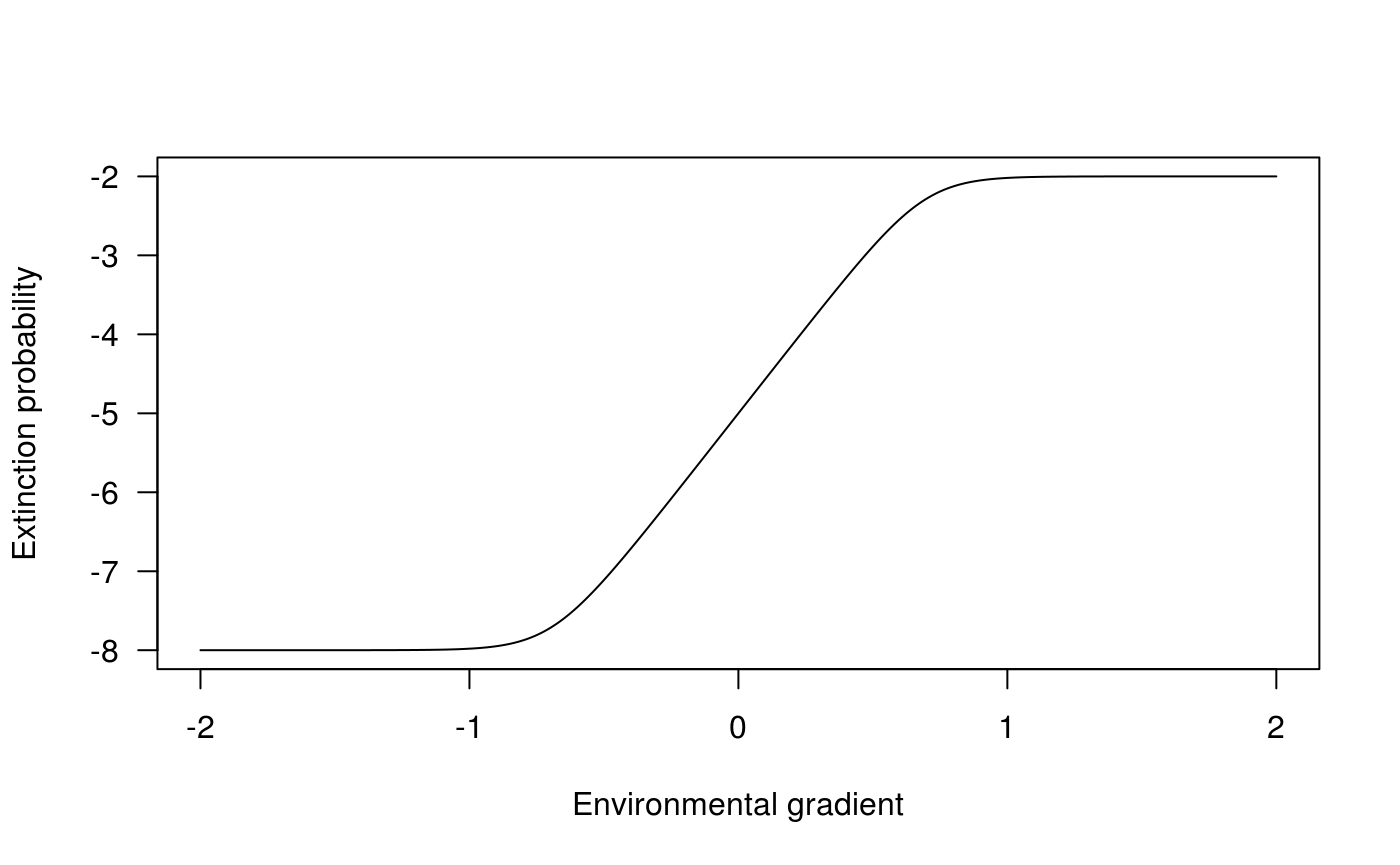
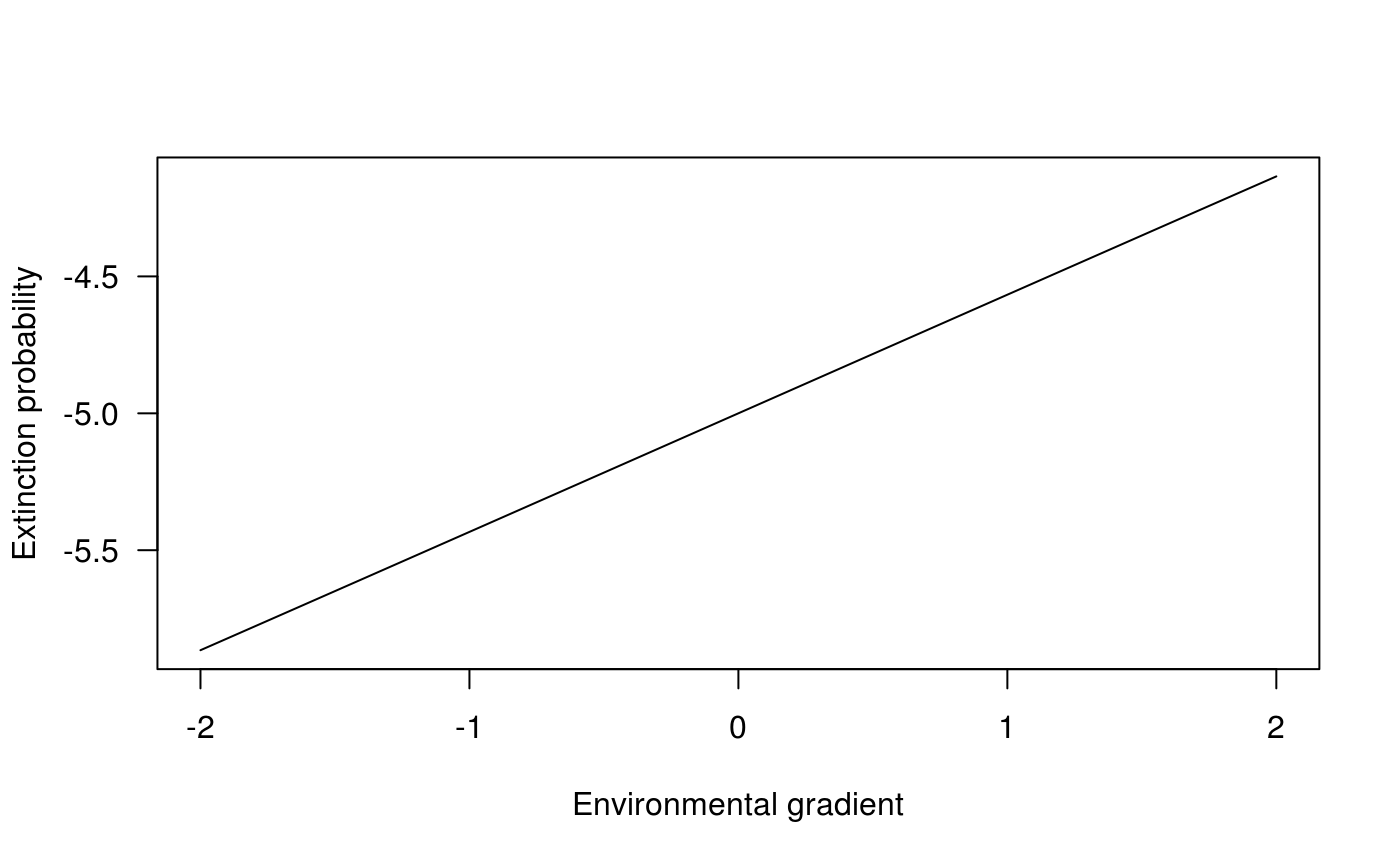
Automated deployment: Wed Apr 15 23:28:01 UTC 2020 14c1814e7c932e7a45761147b77a052a9eed8784

diff --git a/articles/Cazelles_2016.html b/articles/Cazelles_2016.html
@@ -108,83 +108,83 @@
 <div id="niche-model" class="section level2">
 <h2 class="hasAnchor">
 <a href="#niche-model" class="anchor"></a>Niche model</h2>
-<p>To simulate I use the niche model that I implemented in <code><a href="https://rdrr.io/pkg/biogeonet/man/nicheModel.html">nicheModel()</a></code>. The first parameters, ``, determines the number of species:</p>
+<p>To simulate I use the niche model that I implemented in <code><a href="https://rdrr.io/pkg/biogeonet/man/nicheModel.html">nicheModel()</a></code>. The first parameters, <code>nbsp</code>, determines the number of species:</p>
 <div class="sourceCode" id="cb2"><html><body><pre class="r"><span class="fu"><a href="https://rdrr.io/pkg/biogeonet/man/nicheModel.html">nicheModel</a></span>(<span class="kw">nbsp</span> <span class="kw">=</span> <span class="fl">5</span>, <span class="fl">.2</span>, <span class="fl">1</span>)
-<span class="co">#&gt;            [,1]        [,2]      [,3]       [,4]       [,5]</span>
-<span class="co">#&gt; [1,]  0.0000000  0.08423852 0.7664287  0.0000000  0.0000000</span>
-<span class="co">#&gt; [2,] -0.1673350 -0.59183503 0.0000000  0.0000000  0.0000000</span>
-<span class="co">#&gt; [3,] -0.4846214  0.00000000 0.0000000  0.0000000  0.0000000</span>
-<span class="co">#&gt; [4,]  0.0000000  0.00000000 0.0000000  0.0000000  0.7389576</span>
-<span class="co">#&gt; [5,]  0.0000000  0.00000000 0.0000000 -0.4723567 -0.9623593</span>
+<span class="co">#&gt;      [,1]        [,2]       [,3] [,4]       [,5]</span>
+<span class="co">#&gt; [1,]    0  0.00000000  0.0000000    0  0.0000000</span>
+<span class="co">#&gt; [2,]    0 -0.96414199  0.9336844    0  0.0000000</span>
+<span class="co">#&gt; [3,]    0 -0.02985986 -0.7644555    0  0.0000000</span>
+<span class="co">#&gt; [4,]    0  0.00000000  0.0000000    0  0.0000000</span>
+<span class="co">#&gt; [5,]    0  0.00000000  0.0000000    0 -0.3531925</span>
 <span class="fu"><a href="https://rdrr.io/pkg/biogeonet/man/nicheModel.html">nicheModel</a></span>(<span class="kw">nbsp</span> <span class="kw">=</span> <span class="fl">10</span>, <span class="fl">.2</span>, <span class="fl">1</span>)
-<span class="co">#&gt;             [,1]       [,2]       [,3]        [,4]         [,5]       [,6]</span>
-<span class="co">#&gt;  [1,]  0.0000000  0.0000000  0.0000000  0.00000000  0.000000000  0.0000000</span>
-<span class="co">#&gt;  [2,]  0.0000000  0.0000000  0.0000000  0.00000000  0.000000000  0.0000000</span>
-<span class="co">#&gt;  [3,]  0.0000000  0.0000000  0.0000000  0.02290975  0.000000000  0.0000000</span>
-<span class="co">#&gt;  [4,]  0.0000000  0.0000000 -0.7154118  0.00000000  0.020137347  0.0000000</span>
-<span class="co">#&gt;  [5,]  0.0000000  0.0000000  0.0000000 -0.20158438 -0.285316206 -0.2173576</span>
-<span class="co">#&gt;  [6,]  0.0000000  0.0000000  0.0000000  0.00000000  0.006646735  0.0000000</span>
-<span class="co">#&gt;  [7,] -0.9921565 -0.3493675 -0.5588185  0.00000000  0.000000000  0.0000000</span>
-<span class="co">#&gt;  [8,]  0.0000000  0.0000000  0.0000000  0.00000000  0.000000000  0.0000000</span>
-<span class="co">#&gt;  [9,]  0.0000000  0.0000000  0.0000000  0.00000000  0.000000000  0.0000000</span>
-<span class="co">#&gt; [10,]  0.0000000  0.0000000  0.0000000  0.00000000  0.000000000  0.0000000</span>
-<span class="co">#&gt;             [,7]         [,8] [,9]     [,10]</span>
-<span class="co">#&gt;  [1,]  0.5200845  0.000000000    0 0.0000000</span>
-<span class="co">#&gt;  [2,]  0.1186515  0.000000000    0 0.0000000</span>
-<span class="co">#&gt;  [3,]  0.8768480  0.000000000    0 0.0000000</span>
-<span class="co">#&gt;  [4,]  0.0000000  0.000000000    0 0.0000000</span>
-<span class="co">#&gt;  [5,]  0.0000000  0.000000000    0 0.0000000</span>
-<span class="co">#&gt;  [6,]  0.0000000  0.000000000    0 0.0000000</span>
-<span class="co">#&gt;  [7,]  0.0000000  0.000000000    0 0.4796585</span>
-<span class="co">#&gt;  [8,]  0.0000000 -0.000819478    0 0.0000000</span>
-<span class="co">#&gt;  [9,]  0.0000000  0.000000000    0 0.0000000</span>
-<span class="co">#&gt; [10,] -0.7841765  0.000000000    0 0.0000000</span></pre></body></html></div>
+<span class="co">#&gt;             [,1]        [,2]       [,3]        [,4]       [,5]       [,6]</span>
+<span class="co">#&gt;  [1,]  0.0000000  0.19739505  0.0000000  0.09025352  0.0000000  0.0000000</span>
+<span class="co">#&gt;  [2,] -0.5578635  0.00000000  0.9298155  0.00000000  0.0000000  0.0000000</span>
+<span class="co">#&gt;  [3,]  0.0000000 -0.36755342 -0.9672750  0.00000000  0.0000000  0.0000000</span>
+<span class="co">#&gt;  [4,] -0.7575315  0.00000000  0.0000000  0.00000000  0.0000000  0.0000000</span>
+<span class="co">#&gt;  [5,]  0.0000000  0.00000000  0.0000000  0.00000000  0.0000000  0.0000000</span>
+<span class="co">#&gt;  [6,]  0.0000000  0.00000000  0.0000000  0.00000000  0.0000000  0.0000000</span>
+<span class="co">#&gt;  [7,]  0.0000000  0.00000000  0.0000000 -0.64305089 -0.3535355 -0.9410673</span>
+<span class="co">#&gt;  [8,]  0.0000000  0.00000000  0.0000000  0.00000000  0.0000000  0.0000000</span>
+<span class="co">#&gt;  [9,]  0.0000000  0.00000000  0.0000000  0.00000000  0.0000000  0.0000000</span>
+<span class="co">#&gt; [10,]  0.0000000 -0.01514157 -0.5757148 -0.95177582 -0.4148616 -0.9619323</span>
+<span class="co">#&gt;             [,7]       [,8] [,9]      [,10]</span>
+<span class="co">#&gt;  [1,]  0.0000000  0.0000000    0 0.00000000</span>
+<span class="co">#&gt;  [2,]  0.0000000  0.0000000    0 0.02626717</span>
+<span class="co">#&gt;  [3,]  0.0000000  0.0000000    0 0.89731831</span>
+<span class="co">#&gt;  [4,]  0.3401356  0.0000000    0 0.24179039</span>
+<span class="co">#&gt;  [5,]  0.7032274  0.0000000    0 0.86830016</span>
+<span class="co">#&gt;  [6,]  0.4431213  0.0000000    0 0.53421292</span>
+<span class="co">#&gt;  [7,] -0.7040102 -0.7135993    0 0.31088201</span>
+<span class="co">#&gt;  [8,]  0.7248843  0.0000000    0 0.00000000</span>
+<span class="co">#&gt;  [9,]  0.0000000  0.0000000    0 0.00000000</span>
+<span class="co">#&gt; [10,] -0.1599543  0.0000000    0 0.00000000</span></pre></body></html></div>
 <p>The second parameter controls the connectance (the expected connectance).</p>
 <div class="sourceCode" id="cb3"><html><body><pre class="r"><span class="fu"><a href="https://rdrr.io/pkg/biogeonet/man/nicheModel.html">nicheModel</a></span>(<span class="fl">5</span>, <span class="kw">connec</span> <span class="kw">=</span> <span class="fl">.1</span>, <span class="fl">1</span>)
-<span class="co">#&gt;      [,1]       [,2]       [,3]       [,4]        [,5]</span>
-<span class="co">#&gt; [1,]    0  0.0000000  0.0000000  0.0000000  0.00000000</span>
-<span class="co">#&gt; [2,]    0 -0.9624372  0.0000000  0.0000000  0.44972237</span>
-<span class="co">#&gt; [3,]    0  0.0000000  0.0000000  0.0000000  0.37335227</span>
-<span class="co">#&gt; [4,]    0  0.0000000  0.0000000  0.0000000  0.32351070</span>
-<span class="co">#&gt; [5,]    0 -0.3008550 -0.9874299 -0.2493751 -0.01861432</span>
+<span class="co">#&gt;            [,1] [,2] [,3]      [,4] [,5]</span>
+<span class="co">#&gt; [1,]  0.0000000    0    0 0.8324706    0</span>
+<span class="co">#&gt; [2,]  0.0000000    0    0 0.0000000    0</span>
+<span class="co">#&gt; [3,]  0.0000000    0    0 0.0000000    0</span>
+<span class="co">#&gt; [4,] -0.5006021    0    0 0.0000000    0</span>
+<span class="co">#&gt; [5,]  0.0000000    0    0 0.0000000    0</span>
 <span class="fu"><a href="https://rdrr.io/pkg/biogeonet/man/nicheModel.html">nicheModel</a></span>(<span class="fl">5</span>, <span class="kw">connec</span> <span class="kw">=</span> <span class="fl">.4</span>, <span class="fl">1</span>)
-<span class="co">#&gt;             [,1]        [,2]       [,3]       [,4]       [,5]</span>
-<span class="co">#&gt; [1,] -0.08938488  0.15414453  0.0000000  0.6573219  0.3285603</span>
-<span class="co">#&gt; [2,] -0.02648614 -0.52872205  0.8381524 -0.1923653  0.3987934</span>
-<span class="co">#&gt; [3,]  0.00000000 -0.45138505 -0.9403534 -0.2618457  0.5103612</span>
-<span class="co">#&gt; [4,] -0.71166805  0.01849329  0.9173436  0.0000000  0.4311981</span>
-<span class="co">#&gt; [5,] -0.65256086 -0.38897821 -0.3942041 -0.7259063 -0.7912346</span></pre></body></html></div>
-<p>The last parameter, <code>mode</code>, affects the sign structure of the output matrix (not included in the original publication o fthe niche model):</p>
+<span class="co">#&gt;             [,1]       [,2]       [,3]       [,4]         [,5]</span>
+<span class="co">#&gt; [1,] -0.05694253  0.8829116  0.0000000  0.0000000  0.000000000</span>
+<span class="co">#&gt; [2,] -0.77399797 -0.9034324  0.0000000  0.0000000  0.000000000</span>
+<span class="co">#&gt; [3,]  0.00000000  0.0000000  0.0000000  0.5799863  0.009271166</span>
+<span class="co">#&gt; [4,]  0.00000000  0.0000000 -0.4191426 -0.6282816  0.768845469</span>
+<span class="co">#&gt; [5,]  0.00000000  0.0000000 -0.5761981 -0.2742476 -0.716800046</span></pre></body></html></div>
+<p>The last parameter, <code>mode</code>, affects the sign structure of the output matrix (not included in the original publication of the niche model):</p>
 <div class="sourceCode" id="cb4"><html><body><pre class="r"><span class="co"># mode 1 + and -, refered as "predation" in Cazelles (2016)</span>
 <span class="fu"><a href="https://rdrr.io/pkg/biogeonet/man/nicheModel.html">nicheModel</a></span>(<span class="fl">5</span>, <span class="fl">.2</span>, <span class="kw">mode</span> <span class="kw">=</span> <span class="fl">1</span>)
-<span class="co">#&gt;            [,1]       [,2]       [,3]       [,4]       [,5]</span>
-<span class="co">#&gt; [1,] -0.2196047  0.0717989  0.0000000  0.0000000  0.0000000</span>
-<span class="co">#&gt; [2,] -0.8239885  0.0000000  0.0000000  0.1419593  0.0000000</span>
-<span class="co">#&gt; [3,]  0.0000000  0.0000000 -0.4202297  0.6308275  0.2573932</span>
-<span class="co">#&gt; [4,]  0.0000000 -0.6498952 -0.7762214  0.0000000  0.2155817</span>
-<span class="co">#&gt; [5,]  0.0000000  0.0000000 -0.1042250 -0.2414534 -0.1375708</span>
+<span class="co">#&gt;            [,1]       [,2]        [,3]       [,4]       [,5]</span>
+<span class="co">#&gt; [1,]  0.0000000  0.0000000  0.99558611  0.0000000  0.0000000</span>
+<span class="co">#&gt; [2,]  0.0000000  0.0000000  0.74920607  0.1449158  0.0000000</span>
+<span class="co">#&gt; [3,] -0.9257428 -0.8393909  0.00000000  0.9853119  0.0000000</span>
+<span class="co">#&gt; [4,]  0.0000000 -0.8019472 -0.05674262 -0.5986828 -0.7287363</span>
+<span class="co">#&gt; [5,]  0.0000000  0.0000000  0.00000000  0.7557363  0.0000000</span>
 <span class="co"># mode 2, only -, refered as "competition" in Cazelles (2016)</span>
 <span class="fu"><a href="https://rdrr.io/pkg/biogeonet/man/nicheModel.html">nicheModel</a></span>(<span class="fl">5</span>, <span class="fl">.2</span>, <span class="kw">mode</span> <span class="kw">=</span> <span class="fl">2</span>)
-<span class="co">#&gt;      [,1]       [,2]       [,3]       [,4]       [,5]</span>
-<span class="co">#&gt; [1,]    0  0.0000000  0.0000000  0.0000000  0.0000000</span>
-<span class="co">#&gt; [2,]    0 -0.5983179 -0.5183450  0.0000000 -0.7476726</span>
-<span class="co">#&gt; [3,]    0 -0.5660064  0.0000000 -0.6913341  0.0000000</span>
-<span class="co">#&gt; [4,]    0  0.0000000 -0.5779856 -0.2777446  0.0000000</span>
-<span class="co">#&gt; [5,]    0 -0.2365302  0.0000000  0.0000000  0.0000000</span>
+<span class="co">#&gt;            [,1]       [,2]       [,3]       [,4]        [,5]</span>
+<span class="co">#&gt; [1,] -0.9650264 -0.5748066  0.0000000  0.0000000  0.00000000</span>
+<span class="co">#&gt; [2,] -0.0158577  0.0000000 -0.8066204  0.0000000  0.00000000</span>
+<span class="co">#&gt; [3,]  0.0000000 -0.8675360  0.0000000  0.0000000  0.00000000</span>
+<span class="co">#&gt; [4,]  0.0000000  0.0000000  0.0000000 -0.5459842 -0.04397972</span>
+<span class="co">#&gt; [5,]  0.0000000  0.0000000  0.0000000 -0.3131400 -0.99286546</span>
 <span class="co"># mode 2, only +, refered as "mutualism" in Cazelles (2016)</span>
 <span class="fu"><a href="https://rdrr.io/pkg/biogeonet/man/nicheModel.html">nicheModel</a></span>(<span class="fl">5</span>, <span class="fl">.2</span>, <span class="kw">mode</span> <span class="kw">=</span> <span class="fl">3</span>)
-<span class="co">#&gt;           [,1]      [,2]      [,3]      [,4]      [,5]</span>
-<span class="co">#&gt; [1,] 0.6247577 0.0000000 0.0000000 0.0000000 0.0000000</span>
-<span class="co">#&gt; [2,] 0.0000000 0.0000000 0.0000000 0.0000000 0.6992318</span>
-<span class="co">#&gt; [3,] 0.0000000 0.0000000 0.0000000 0.0000000 0.2016381</span>
-<span class="co">#&gt; [4,] 0.0000000 0.0000000 0.0000000 0.0000000 0.9097800</span>
-<span class="co">#&gt; [5,] 0.0000000 0.3544592 0.2713317 0.6759271 0.7992786</span></pre></body></html></div>
+<span class="co">#&gt;      [,1]      [,2]      [,3]       [,4]      [,5]</span>
+<span class="co">#&gt; [1,]    0 0.0000000 0.0000000 0.00000000 0.0000000</span>
+<span class="co">#&gt; [2,]    0 0.1371346 0.8483635 0.00000000 0.4866197</span>
+<span class="co">#&gt; [3,]    0 0.1480238 0.0000000 0.00000000 0.9729078</span>
+<span class="co">#&gt; [4,]    0 0.0000000 0.0000000 0.00000000 0.1235587</span>
+<span class="co">#&gt; [5,]    0 0.9700352 0.1380842 0.04545414 0.7392418</span></pre></body></html></div>
 <p>See <code><a href="https://rdrr.io/pkg/biogeonet/man/nicheModel.html">?nicheModel</a></code> for further details.</p>
 </div>
 <div id="colonization" class="section level2">
 <h2 class="hasAnchor">
 <a href="#colonization" class="anchor"></a>Colonization</h2>
-<p>The colonisation probability bell-shaped function (see <code><a href="https://rdrr.io/pkg/biogeonet/man/colonization.html">?colonization</a></code> for details).</p>
+<p>The colonisation probability is a bell-shaped function (see <code><a href="https://rdrr.io/pkg/biogeonet/man/colonization.html">?colonization</a></code> for details).</p>
 <div class="sourceCode" id="cb5"><html><body><pre class="r"><span class="no">seqx</span> <span class="kw">&lt;-</span> <span class="fu"><a href="https://rdrr.io/r/base/seq.html">seq</a></span>(<span class="fl">0</span>, <span class="fl">10</span>, <span class="fl">.01</span>)
 <span class="no">vc_colo</span> <span class="kw">&lt;-</span> <span class="fu"><a href="https://rdrr.io/r/base/lapply.html">sapply</a></span>(<span class="no">seqx</span>, <span class="kw">FUN</span> <span class="kw">=</span> <span class="no">colonization</span>, <span class="fl">1</span>, <span class="fl">5</span>, <span class="fl">2</span>)
 <span class="fu"><a href="https://rdrr.io/r/graphics/plot.html">plot</a></span>(<span class="no">seqx</span>, <span class="no">vc_colo</span>, <span class="kw">type</span><span class="kw">=</span><span class="st">"l"</span>, <span class="kw">las</span> <span class="kw">=</span> <span class="fl">1</span>, <span class="kw">ylab</span> <span class="kw">=</span> <span class="st">"Extinction probability"</span>,
@@ -196,18 +196,108 @@
 <a href="#extinction" class="anchor"></a>Extinction</h2>
 <p>The extinction probability is basically a flexible logistic function (see <code><a href="https://rdrr.io/pkg/biogeonet/man/extinction.html">?extinction</a></code> for details)</p>
 <div class="sourceCode" id="cb6"><html><body><pre class="r"><span class="no">seqx</span> <span class="kw">&lt;-</span> <span class="fu"><a href="https://rdrr.io/r/base/seq.html">seq</a></span>(-<span class="fl">2</span>, <span class="fl">2</span>, <span class="fl">.01</span>)
-<span class="no">vc_exti</span> <span class="kw">&lt;-</span> <span class="fu"><a href="https://rdrr.io/r/base/lapply.html">sapply</a></span>(<span class="no">seqx</span>, <span class="kw">FUN</span> <span class="kw">=</span> <span class="no">extinction</span>, <span class="fl">1e-5</span>, <span class="fl">1e-3</span>, <span class="fl">1e3</span>, -<span class="fl">10</span>)
+<span class="no">vc_exti</span> <span class="kw">&lt;-</span> <span class="fu"><a href="https://rdrr.io/r/base/lapply.html">sapply</a></span>(<span class="no">seqx</span>, <span class="kw">FUN</span> <span class="kw">=</span> <span class="no">extinction</span>, <span class="fl">1e-5</span>, <span class="fl">1e-3</span>, <span class="fl">1e3</span>, -<span class="fl">1</span>)
 <span class="fu"><a href="https://rdrr.io/r/graphics/plot.html">plot</a></span>(<span class="no">seqx</span>, <span class="fu"><a href="https://rdrr.io/r/base/Log.html">log10</a></span>(<span class="no">vc_exti</span>), <span class="kw">type</span><span class="kw">=</span><span class="st">"l"</span>, <span class="kw">las</span> <span class="kw">=</span> <span class="fl">1</span>, <span class="kw">ylab</span> <span class="kw">=</span> <span class="st">"Extinction probability"</span>,
   <span class="kw">xlab</span> <span class="kw">=</span> <span class="st">"Environmental gradient"</span>)</pre></body></html></div>
 <p><img src="Cazelles_2016_files/figure-html/unnamed-chunk-6-1.png" width="700"></p>
 </div>
-<div id="build-the-markov-chain-and-solve-it" class="section level2">
+<div id="building-markov-chain-and-deriving-its-equilibrium" class="section level2">
 <h2 class="hasAnchor">
-<a href="#build-the-markov-chain-and-solve-it" class="anchor"></a>Build the Markov chain and solve it</h2>
+<a href="#building-markov-chain-and-deriving-its-equilibrium" class="anchor"></a>Building Markov chain and deriving its equilibrium</h2>
+<p>For a specific vector of colonisation (1 value per species), a specific ecological networks (use to derive extinction probabilities), we can build the transition matrix of a Markov chain with <code><a href="https://rdrr.io/pkg/biogeonet/man/buildMarkov.html">buildMarkov()</a></code>. So far, it builds the matrix of a continuous-time Markov chain](<a href="https://en.wikipedia.org/wiki/Markov_chain#Continuous-time_Markov_chain" class="uri">https://en.wikipedia.org/wiki/Markov_chain#Continuous-time_Markov_chain</a>) ans so probabilities described above should actuall be rates.</p>
+<div class="sourceCode" id="cb7"><html><body><pre class="r"><span class="co"># number of species</span>
+<span class="no">nbsp</span> <span class="kw">&lt;-</span> <span class="fl">4</span>
+<span class="co"># network</span>
+<span class="no">web</span> <span class="kw">&lt;-</span> <span class="fu"><a href="https://rdrr.io/pkg/biogeonet/man/nicheModel.html">nicheModel</a></span>(<span class="no">nbsp</span>, <span class="fl">.2</span>, <span class="kw">mode</span> <span class="kw">=</span> <span class="fl">1</span>)
+<span class="co"># colonisation vector</span>
+<span class="no">colo</span> <span class="kw">&lt;-</span> <span class="fl">10</span>^<span class="fu"><a href="https://rdrr.io/r/stats/Uniform.html">runif</a></span>(<span class="no">nbsp</span>, -<span class="fl">7</span>, -<span class="fl">3</span>)
+<span class="co">#</span>
+<span class="no">mat</span> <span class="kw">&lt;-</span> <span class="fu"><a href="https://rdrr.io/pkg/biogeonet/man/buildMarkov.html">buildMarkov</a></span>(<span class="no">nbsp</span>, <span class="no">colo</span>, <span class="no">web</span>, <span class="fl">1e-5</span>, <span class="fl">1e-3</span>, <span class="fl">1e3</span>, -<span class="fl">1</span>)
+<span class="no">mat</span>
+<span class="co">#&gt;                [,1]          [,2]          [,3]          [,4]          [,5]</span>
+<span class="co">#&gt;  [1,] -2.654168e-05  1.000000e-05  1.000000e-05  0.000000e+00  5.211794e-06</span>
+<span class="co">#&gt;  [2,]  6.639338e-06 -2.990235e-05  0.000000e+00  9.834209e-06  0.000000e+00</span>
+<span class="co">#&gt;  [3,]  1.416746e-05  0.000000e+00 -2.237422e-05  1.958841e-05  0.000000e+00</span>
+<span class="co">#&gt;  [4,]  0.000000e+00  1.416746e-05  6.639338e-06 -3.515750e-05  0.000000e+00</span>
+<span class="co">#&gt;  [5,]  1.177272e-06  0.000000e+00  0.000000e+00  0.000000e+00 -3.057621e-05</span>
+<span class="co">#&gt;  [6,]  0.000000e+00  1.177272e-06  0.000000e+00  0.000000e+00  6.639338e-06</span>
+<span class="co">#&gt;  [7,]  0.000000e+00  0.000000e+00  1.177272e-06  0.000000e+00  1.416746e-05</span>
+<span class="co">#&gt;  [8,]  0.000000e+00  0.000000e+00  0.000000e+00  1.177272e-06  0.000000e+00</span>
+<span class="co">#&gt;  [9,]  4.557610e-06  0.000000e+00  0.000000e+00  0.000000e+00  0.000000e+00</span>
+<span class="co">#&gt; [10,]  0.000000e+00  4.557610e-06  0.000000e+00  0.000000e+00  0.000000e+00</span>
+<span class="co">#&gt; [11,]  0.000000e+00  0.000000e+00  4.557610e-06  0.000000e+00  0.000000e+00</span>
+<span class="co">#&gt; [12,]  0.000000e+00  0.000000e+00  0.000000e+00  4.557610e-06  0.000000e+00</span>
+<span class="co">#&gt; [13,]  0.000000e+00  0.000000e+00  0.000000e+00  0.000000e+00  4.557610e-06</span>
+<span class="co">#&gt; [14,]  0.000000e+00  0.000000e+00  0.000000e+00  0.000000e+00  0.000000e+00</span>
+<span class="co">#&gt; [15,]  0.000000e+00  0.000000e+00  0.000000e+00  0.000000e+00  0.000000e+00</span>
+<span class="co">#&gt; [16,]  0.000000e+00  0.000000e+00  0.000000e+00  0.000000e+00  0.000000e+00</span>
+<span class="co">#&gt;                [,6]          [,7]          [,8]          [,9]         [,10]</span>
+<span class="co">#&gt;  [1,]  0.000000e+00  0.000000e+00  0.000000e+00  1.000000e-05  0.000000e+00</span>
+<span class="co">#&gt;  [2,]  5.211794e-06  0.000000e+00  0.000000e+00  0.000000e+00  1.000000e-05</span>
+<span class="co">#&gt;  [3,]  0.000000e+00  4.970504e-06  0.000000e+00  0.000000e+00  0.000000e+00</span>
+<span class="co">#&gt;  [4,]  0.000000e+00  0.000000e+00  4.970504e-06  0.000000e+00  0.000000e+00</span>
+<span class="co">#&gt;  [5,]  1.000000e-05  2.264990e-05  0.000000e+00  0.000000e+00  0.000000e+00</span>
+<span class="co">#&gt;  [6,] -3.393687e-05  0.000000e+00  2.227464e-05  0.000000e+00  0.000000e+00</span>
+<span class="co">#&gt;  [7,]  0.000000e+00 -3.881735e-05  1.958841e-05  0.000000e+00  0.000000e+00</span>
+<span class="co">#&gt;  [8,]  1.416746e-05  6.639338e-06 -5.139117e-05  0.000000e+00  0.000000e+00</span>
+<span class="co">#&gt;  [9,]  0.000000e+00  0.000000e+00  0.000000e+00 -3.198407e-05  1.000000e-05</span>
+<span class="co">#&gt; [10,]  0.000000e+00  0.000000e+00  0.000000e+00  6.639338e-06 -3.534474e-05</span>
+<span class="co">#&gt; [11,]  0.000000e+00  0.000000e+00  0.000000e+00  1.416746e-05  0.000000e+00</span>
+<span class="co">#&gt; [12,]  0.000000e+00  0.000000e+00  0.000000e+00  0.000000e+00  1.416746e-05</span>
+<span class="co">#&gt; [13,]  0.000000e+00  0.000000e+00  0.000000e+00  1.177272e-06  0.000000e+00</span>
+<span class="co">#&gt; [14,]  4.557610e-06  0.000000e+00  0.000000e+00  0.000000e+00  1.177272e-06</span>
+<span class="co">#&gt; [15,]  0.000000e+00  4.557610e-06  0.000000e+00  0.000000e+00  0.000000e+00</span>
+<span class="co">#&gt; [16,]  0.000000e+00  0.000000e+00  4.557610e-06  0.000000e+00  0.000000e+00</span>
+<span class="co">#&gt;               [,11]         [,12]         [,13]         [,14]         [,15]</span>
+<span class="co">#&gt;  [1,]  0.000000e+00  0.000000e+00  0.000000e+00  0.000000e+00  0.000000e+00</span>
+<span class="co">#&gt;  [2,]  0.000000e+00  0.000000e+00  0.000000e+00  0.000000e+00  0.000000e+00</span>
+<span class="co">#&gt;  [3,]  1.000000e-05  0.000000e+00  0.000000e+00  0.000000e+00  0.000000e+00</span>
+<span class="co">#&gt;  [4,]  0.000000e+00  1.000000e-05  0.000000e+00  0.000000e+00  0.000000e+00</span>
+<span class="co">#&gt;  [5,]  0.000000e+00  0.000000e+00  1.000000e-05  0.000000e+00  0.000000e+00</span>
+<span class="co">#&gt;  [6,]  0.000000e+00  0.000000e+00  0.000000e+00  1.000000e-05  0.000000e+00</span>
+<span class="co">#&gt;  [7,]  0.000000e+00  0.000000e+00  0.000000e+00  0.000000e+00  1.000000e-05</span>
+<span class="co">#&gt;  [8,]  0.000000e+00  0.000000e+00  0.000000e+00  0.000000e+00  0.000000e+00</span>
+<span class="co">#&gt;  [9,]  1.000000e-05  0.000000e+00  5.211794e-06  0.000000e+00  0.000000e+00</span>
+<span class="co">#&gt; [10,]  0.000000e+00  9.834209e-06  0.000000e+00  5.211794e-06  0.000000e+00</span>
+<span class="co">#&gt; [11,] -2.781661e-05  1.958841e-05  0.000000e+00  0.000000e+00  4.970504e-06</span>
+<span class="co">#&gt; [12,]  6.639338e-06 -4.059989e-05  0.000000e+00  0.000000e+00  0.000000e+00</span>
+<span class="co">#&gt; [13,]  0.000000e+00  0.000000e+00 -3.601860e-05  1.000000e-05  2.264990e-05</span>
+<span class="co">#&gt; [14,]  0.000000e+00  0.000000e+00  6.639338e-06 -3.937926e-05  0.000000e+00</span>
+<span class="co">#&gt; [15,]  1.177272e-06  0.000000e+00  1.416746e-05  0.000000e+00 -4.425974e-05</span>
+<span class="co">#&gt; [16,]  0.000000e+00  1.177272e-06  0.000000e+00  1.416746e-05  6.639338e-06</span>
+<span class="co">#&gt;               [,16]</span>
+<span class="co">#&gt;  [1,]  0.000000e+00</span>
+<span class="co">#&gt;  [2,]  0.000000e+00</span>
+<span class="co">#&gt;  [3,]  0.000000e+00</span>
+<span class="co">#&gt;  [4,]  0.000000e+00</span>
+<span class="co">#&gt;  [5,]  0.000000e+00</span>
+<span class="co">#&gt;  [6,]  0.000000e+00</span>
+<span class="co">#&gt;  [7,]  0.000000e+00</span>
+<span class="co">#&gt;  [8,]  1.000000e-05</span>
+<span class="co">#&gt;  [9,]  0.000000e+00</span>
+<span class="co">#&gt; [10,]  0.000000e+00</span>
+<span class="co">#&gt; [11,]  0.000000e+00</span>
+<span class="co">#&gt; [12,]  4.970504e-06</span>
+<span class="co">#&gt; [13,]  0.000000e+00</span>
+<span class="co">#&gt; [14,]  2.227464e-05</span>
+<span class="co">#&gt; [15,]  1.958841e-05</span>
+<span class="co">#&gt; [16,] -5.683356e-05</span></pre></body></html></div>
+<p>then <code><a href="https://rdrr.io/pkg/biogeonet/man/solveMarkov.html">solveMarkov()</a></code> returns the probabilities at equilibrium for all communities:</p>
+<div class="sourceCode" id="cb8"><html><body><pre class="r"><span class="no">sol</span> <span class="kw">&lt;-</span> <span class="fu"><a href="https://rdrr.io/pkg/biogeonet/man/solveMarkov.html">solveMarkov</a></span>(<span class="no">mat</span>, <span class="kw">continuous</span> <span class="kw">=</span> <span class="fl">TRUE</span>)
+<span class="no">sol</span>
+<span class="co">#&gt;  [1] 0.2024829408 0.0556399460 0.4597839841 0.0695208046 0.0208671190</span>
+<span class="co">#&gt;  [6] 0.0058259318 0.0118486637 0.0020384208 0.0420593668 0.0115574225</span>
+<span class="co">#&gt; [11] 0.0955054444 0.0144407277 0.0043344778 0.0012101513 0.0024611816</span>
+<span class="co">#&gt; [16] 0.0004234169</span></pre></body></html></div>
+<p>This gives the probability at equilibrium (<em>sensu</em> MacArthur &amp; Wilson 1967) for all of the <span class="math inline">\(2^{nbsp}\)</span> community (here <code>nbsp</code>=4, so there are 16 potential communities).</p>
+<div class="sourceCode" id="cb9"><html><body><pre class="r"><span class="co"># NB some to one</span>
+<span class="fu"><a href="https://rdrr.io/r/base/sum.html">sum</a></span>(<span class="no">sol</span>)
+<span class="co">#&gt; [1] 1</span></pre></body></html></div>
 </div>
 <div id="reproduce-the-study" class="section level2">
 <h2 class="hasAnchor">
 <a href="#reproduce-the-study" class="anchor"></a>Reproduce the study</h2>
+<p>In Cazelles <em>et al.</em> (2016), we basically solved tons of those for 10 species (1024 communities), for the 3 sign structure described above and under various scenarios of connectance and environmental conditions (so a bunch of for loops using the steps described above!).</p>
 </div>
 <div class="footnotes">
 <hr>

diff --git a/index.html b/index.html
@@ -85,7 +85,7 @@
 <div class="page-header"><h1 class="hasAnchor">
 <a href="#biogeonet" class="anchor"></a>biogeonet</h1></div>
 
-<p>R (and Rcpp) implementation for Cazelles <em>et al.</em> 2016 <a href="DOI:10.1111/ecog.01714" class="uri">DOI:10.1111/ecog.01714</a></p>
+<p>Functions to reproduce the analysis in Cazelles <em>et al.</em> 2016 <a href="DOI:%5B10.1111/ecog.01714" class="uri">DOI:[10.1111/ecog.01714</a>](<a href="http://onlinelibrary.wiley.com/doi/10.1111/ecog.01714/abstract" class="uri">http://onlinelibrary.wiley.com/doi/10.1111/ecog.01714/abstract</a>).</p>
 <div id="installation" class="section level2">
 <h2 class="hasAnchor">
 <a href="#installation" class="anchor"></a>Installation</h2>
